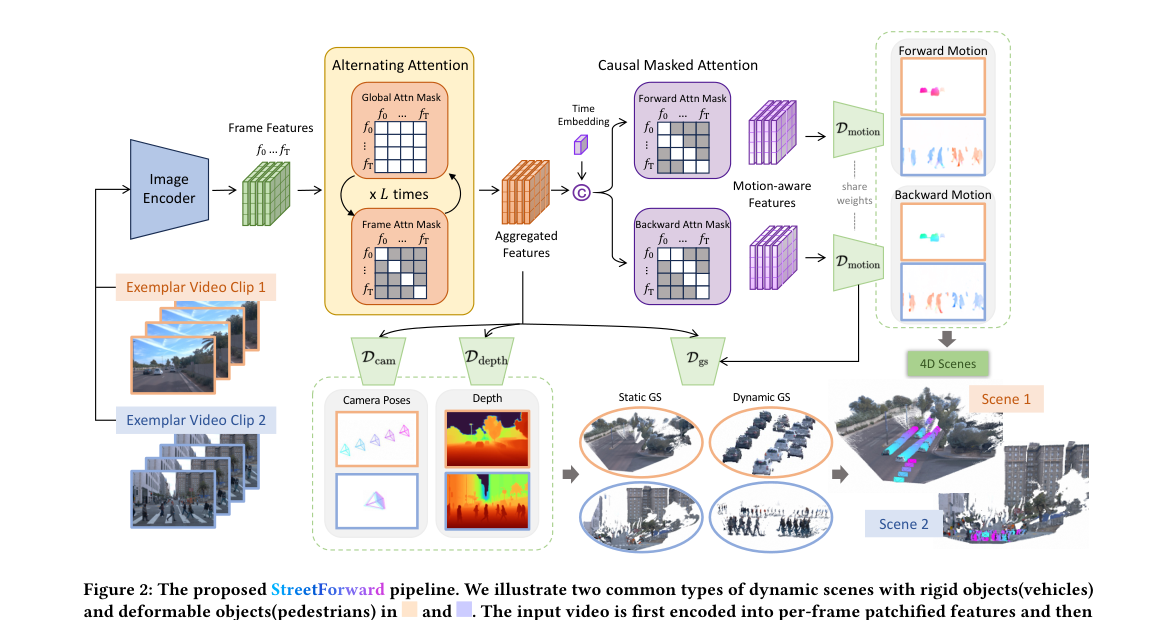
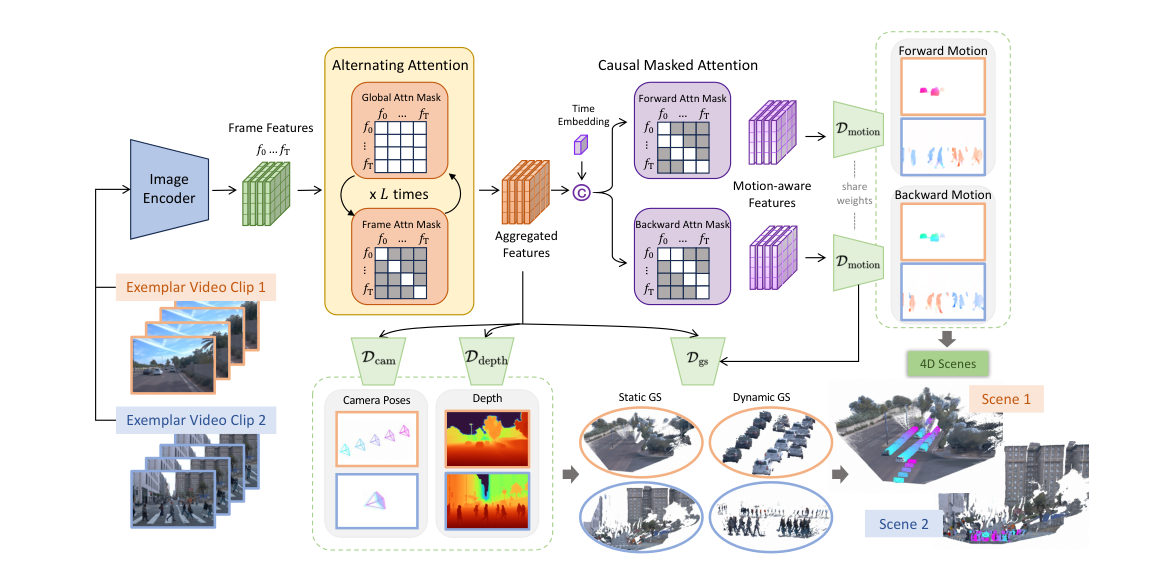
fix: refine figure cropping and simplify blog homepage links

Changed region(s): [[0.0612, 0.0592, 0.949, 1.0], [0.7653, 0.0296, 0.8571, 0.1185]]

diff --git a/site/index.html b/site/index.html
@@ -50,25 +50,20 @@
     这里不是论文列表页，而是一个<strong>论文解读博客</strong>：每篇文章围绕一篇已下载论文展开，重点讲清楚问题背景、方法设计、技术细节、图示和我的理解。
   </p>
   <p class='meta'>当前地址即博客首页，后续新增文章会继续出现在这里。</p>
-  <div style='margin-top:14px;'>
-    <a href='posts/2603_19552v1.html' style='display:inline-block;padding:9px 14px;border-radius:10px;background:#1769c2;color:#fff;margin-right:10px;'>开始阅读</a>
-    <a href='#all-posts' style='display:inline-block;padding:9px 14px;border-radius:10px;border:1px solid #d7e3f0;color:#1769c2;'>浏览全部文章</a>
-  </div>
 </section>
 
 <div class='card' style='display:grid;grid-template-columns:repeat(3,1fr);gap:12px;'><div><div class='meta'>文章数</div><div style='font-size:28px;font-weight:700'>1</div></div><div><div class='meta'>最新发布日期</div><div style='font-size:20px;font-weight:700'>2026-04-02</div></div><div><div class='meta'>主题</div><div style='font-size:20px;font-weight:700'>动态重建 / World Model</div></div></div>
 
-<section class='card' style='padding:18px 20px;'><div class='meta'>推荐阅读 / Featured</div><div style='display:grid;grid-template-columns:minmax(0,1fr) 260px;gap:18px;align-items:start;'><div><h2 style='border-left:none;padding-left:0;margin-top:8px;'><a href='posts/2603_19552v1.html'>StreetForward</a></h2><p class='meta'>2026-04-02 · arXiv: 2603.19552v1</p><p class='meta' style='margin-top:4px;'>StreetForward Perceiving Dynamic Street with Feedforward Causal Attention</p><div style='margin:10px 0'><span style='display:inline-block;padding:3px 9px;margin:3px;border-radius:999px;border:1px solid #d9e5f2;background:#f7fbff;font-size:12px;'>feedforward</span><span style='display:inline-block;padding:3px 9px;margin:3px;border-radius:999px;border:1px solid #d9e5f2;background:#f7fbff;font-size:12px;'>3DGS</span><span style='display:inline-block;padding:3px 9px;margin:3px;border-radius:999px;border:1px solid #d9e5f2;background:#f7fbff;font-size:12px;'>自动驾驶</span><span style='display:inline-block;padding:3px 9px;margin:3px;border-radius:999px;border:1px solid #d9e5f2;background:#f7fbff;font-size:12px;'>动态重建</span><span style='display:inline-block;padding:3px 9px;margin:3px;border-radius:999px;border:1px solid #d9e5f2;background:#f7fbff;font-size:12px;'>场景仿真</span></div><p>StreetForward: Perceiving Dynamic Street with Feedforward Causal Attention Zhongrui Yu Li Auto Inc. Zhao Wang Li Auto Inc. Yijia Xie∗ Zhejiang University Yida Wang† Li Auto Inc. Xueyang Zhang Li Auto Inc. Yifei Zhan Li A</p><p><a href='posts/2603_19552v1.html'>开始阅读 →</a></p></div><div><img src='assets/2603_19552v1/figure1_full.png' alt='cover' style='width:100%;border-radius:12px;border:1px solid #e5e5e5;' /></div></div></section>
+<section class='card' style='padding:18px 20px;'><div class='meta'>推荐阅读 / Featured</div><div style='display:grid;grid-template-columns:minmax(0,1fr) 260px;gap:18px;align-items:start;'><div><h2 style='border-left:none;padding-left:0;margin-top:8px;'><a href='posts/2603_19552v1.html'>StreetForward</a></h2><div style='margin:10px 0'><span style='display:inline-block;padding:3px 9px;margin:3px;border-radius:999px;border:1px solid #d9e5f2;background:#f7fbff;font-size:12px;'>feedforward</span><span style='display:inline-block;padding:3px 9px;margin:3px;border-radius:999px;border:1px solid #d9e5f2;background:#f7fbff;font-size:12px;'>3DGS</span><span style='display:inline-block;padding:3px 9px;margin:3px;border-radius:999px;border:1px solid #d9e5f2;background:#f7fbff;font-size:12px;'>自动驾驶</span><span style='display:inline-block;padding:3px 9px;margin:3px;border-radius:999px;border:1px solid #d9e5f2;background:#f7fbff;font-size:12px;'>动态重建</span><span style='display:inline-block;padding:3px 9px;margin:3px;border-radius:999px;border:1px solid #d9e5f2;background:#f7fbff;font-size:12px;'>场景仿真</span></div><p style='font-size:13px;color:#555;'>一篇把动态街景 4D 重建做成前馈推理、并用因果注意力显式建模时间方向的工作。</p></div><div><img src='assets/2603_19552v1/figure1_full.png' alt='cover' style='width:100%;border-radius:12px;border:1px solid #e5e5e5;' /></div></div></section>
 
 <section style='display:grid;grid-template-columns:1.2fr 1fr 1fr;gap:14px;margin-top:18px;'>
   <div class='card'>
     <div class='meta'>最近更新</div>
-    <ul style='padding-left:18px;margin-top:10px;'><li style='margin:8px 0;'><a href='posts/2603_19552v1.html'>StreetForward</a><div class='meta'>2026-04-02</div></li></ul>
+    <ul style='padding-left:18px;margin-top:10px;'><li style='margin:8px 0;'><a href='posts/2603_19552v1.html'>StreetForward</a><div style='font-size:12px;color:#666;margin-top:2px;'>一篇把动态街景 4D 重建做成前馈推理、并用因果注意力显式建模时间方向的工作。</div></li></ul>
   </div>
   <div class='card'>
     <div class='meta'>推荐阅读</div>
-    <p style='margin-top:10px;'>如果你是第一次来，建议先看最新或最具代表性的一篇文章，快速了解这个博客的写作风格与技术深度。</p>
-    <p><a href='posts/2603_19552v1.html'>打开推荐文章 →</a></p>
+    <p style='margin-top:10px;'>如果你是第一次来，建议直接点击上方推荐文章标题，快速了解这个博客的写作风格与技术深度。</p>
   </div>
   <div class='card'>
     <div class='meta'>分类标签</div>
@@ -80,7 +75,7 @@
   <h2 style='margin-top:26px;'>全部文章</h2>
   <div class='meta'>按时间倒序展示，支持缩略图与摘要预览</div>
   <div style='display:grid;grid-template-columns:repeat(auto-fill,minmax(280px,1fr));gap:14px;margin-top:14px;'>
-    <article class='card' style='padding:12px;display:flex;flex-direction:column;gap:10px;'><img src='assets/2603_19552v1/figure1_full.png' alt='thumb' style='width:100%;height:160px;object-fit:cover;border-radius:10px;border:1px solid #e5e5e5;' /><div class='meta'>2026-04-02 · arXiv: 2603.19552v1</div><a href='posts/2603_19552v1.html' style='font-size:18px;font-weight:700;color:#1f1f1f;'>StreetForward</a><div class='meta' style='margin-top:2px;'>StreetForward Perceiving Dynamic Street with Feedforward Causal Attention</div><div><span style='display:inline-block;padding:3px 9px;margin:3px;border-radius:999px;border:1px solid #d9e5f2;background:#f7fbff;font-size:12px;'>feedforward</span><span style='display:inline-block;padding:3px 9px;margin:3px;border-radius:999px;border:1px solid #d9e5f2;background:#f7fbff;font-size:12px;'>3DGS</span><span style='display:inline-block;padding:3px 9px;margin:3px;border-radius:999px;border:1px solid #d9e5f2;background:#f7fbff;font-size:12px;'>自动驾驶</span><span style='display:inline-block;padding:3px 9px;margin:3px;border-radius:999px;border:1px solid #d9e5f2;background:#f7fbff;font-size:12px;'>动态重建</span><span style='display:inline-block;padding:3px 9px;margin:3px;border-radius:999px;border:1px solid #d9e5f2;background:#f7fbff;font-size:12px;'>场景仿真</span></div><div style='color:#333;'>StreetForward: Perceiving Dynamic Street with Feedforward Causal Attention Zhongrui Yu Li Auto Inc. Zhao Wang Li Auto Inc. Yijia Xie∗ Zhejiang University Yida Wang† Li Auto Inc. Xueyang Zhang Li Auto Inc. Yifei Zhan Li A</div><div><a href='posts/2603_19552v1.html'>阅读全文 →</a></div></article>
+    <article class='card' style='padding:12px;display:flex;flex-direction:column;gap:10px;'><img src='assets/2603_19552v1/figure1_full.png' alt='thumb' style='width:100%;height:160px;object-fit:cover;border-radius:10px;border:1px solid #e5e5e5;' /><a href='posts/2603_19552v1.html' style='font-size:18px;font-weight:700;color:#1f1f1f;'>StreetForward</a><div style='font-size:12px;color:#666;line-height:1.6;'>一篇把动态街景 4D 重建做成前馈推理、并用因果注意力显式建模时间方向的工作。</div><div><span style='display:inline-block;padding:3px 9px;margin:3px;border-radius:999px;border:1px solid #d9e5f2;background:#f7fbff;font-size:12px;'>feedforward</span><span style='display:inline-block;padding:3px 9px;margin:3px;border-radius:999px;border:1px solid #d9e5f2;background:#f7fbff;font-size:12px;'>3DGS</span><span style='display:inline-block;padding:3px 9px;margin:3px;border-radius:999px;border:1px solid #d9e5f2;background:#f7fbff;font-size:12px;'>自动驾驶</span><span style='display:inline-block;padding:3px 9px;margin:3px;border-radius:999px;border:1px solid #d9e5f2;background:#f7fbff;font-size:12px;'>动态重建</span><span style='display:inline-block;padding:3px 9px;margin:3px;border-radius:999px;border:1px solid #d9e5f2;background:#f7fbff;font-size:12px;'>场景仿真</span></div><div style='color:#333;'>StreetForward: Perceiving Dynamic Street with Feedforward Causal Attention Zhongrui Yu Li Auto Inc. Zhao Wang Li Auto Inc. Yijia Xie∗ Zhejiang University Yida Wang† Li Auto Inc. Xueyang Zhang Li Auto Inc. Yifei Zhan Li A</div></article>
   </div>
 </section>
 

diff --git a/site/posts/2603_19552v1.html b/site/posts/2603_19552v1.html
@@ -69,7 +69,7 @@
       <li>不要依赖分割模型，否则系统链路太长，鲁棒性差；</li>
       <li>不要依赖 LiDAR 或强监督的 4D 标注，因为现实数据里这类标注很少。</li>
     </ul>
-    <figure><img class='paper-fig' src='../assets/2603_19552v1/figure1_full.png' alt='Figure 1:' /><figcaption style='font-size:12px;'>图 1：StreetForward 展示了基于前馈式 3DGS 的动态街景时空外推新视角合成。右侧示意图展示了带精确速度的动态街景 3DGS 表示，因此模型无需依赖分割或跟踪，也能在新视角和新时刻进行运动感知渲染。<br/><span style='color:#888;'>原图注：Figure 1: StreetForward: High-fidelity spatio-temporal extrapolated view synthesis via feedforward 3DGS dynamic street reconstruction. The right pane illustrates our 3DGS representation of a dynamic street with precise velocities, enabling motion- aware rendering at novel poses and times independent of segmentation or tracking. Abstract Feedforward reconstruction is crucial for autonomous driving appli- cations, where rapid scene reconstruction enables efficient utiliza- tion of large-scale driv</span></figcaption></figure>
+    <figure><img class='paper-fig' src='../assets/2603_19552v1/figure1_full.png' alt='Figure 1:' /><figcaption style='font-size:12px;'>图 1：StreetForward 展示了基于前馈式 3DGS 的动态街景时空外推新视角合成。右侧示意图展示了带精确速度的动态街景 3DGS 表示，因此模型无需依赖分割或跟踪，也能在新视角和新时刻进行运动感知渲染。</figcaption></figure>
     <p>
       从整体上看，StreetForward 可以分成四步：
     </p>
@@ -82,7 +82,7 @@
     <blockquote>
       你可以把它理解成：先让模型学会“这条街长什么样”，再让模型学会“这条街上的东西怎么动”，最后把这两件事放在同一个 3DGS 表示里统一渲染。
     </blockquote>
-    <figure><img class='paper-fig' src='../assets/2603_19552v1/figure2_full.png' alt='Figure 2:' /><figcaption style='font-size:12px;'>图 2：StreetForward 的整体流程。输入视频先经过交替式注意力聚合得到跨帧特征，再分别解码相机位姿、深度和高斯属性；随后通过带因果掩码的注意力构造运动感知特征，进一步预测前向/后向运动以及动态掩码，最终把静态高斯与跨时间传播的动态高斯合成为完整 4D 场景。<br/><span style='color:#888;'>原图注：Figure 2: The proposed StreetForward pipeline. We illustrate two common types of dynamic scenes with rigid objects(vehicles) and deformable objects(pedestrians) in and . The input video is first encoded into per-frame patchified features and then processed by 𝐿times alternating global- and frame-attention to aggregate information across frames. These aggregated features are directly decoded by a camera head, a depth head and a Gaussian Head to obtain poses, depth and Gaussian attributes. Then ca</span></figcaption></figure>
+    <figure><img class='paper-fig' src='../assets/2603_19552v1/figure2_full.png' alt='Figure 2:' /><figcaption style='font-size:12px;'>图 2：StreetForward 的整体流程。输入视频先经过交替式注意力聚合得到跨帧特征，再分别解码相机位姿、深度和高斯属性；随后通过带因果掩码的注意力构造运动感知特征，进一步预测前向/后向运动以及动态掩码，最终把静态高斯与跨时间传播的动态高斯合成为完整 4D 场景。</figcaption></figure>
 
     <h2 id='innovation'>核心创新</h2>
     <p>这篇论文的创新点可以概括为 3 条：</p>
@@ -149,6 +149,7 @@
       作者假设在局部邻域内，物体的运动通常不会突然撕裂。于是它在 2D 邻域和 3D 近邻上都加了“速度要相近”的正则项。
       这个约束很像在对速度场做“局部平滑”，但不是盲目平滑，而是带动态置信度权重的平滑。
     </p>
+    
     <p>
       通俗点讲，这相当于告诉模型：
       “如果两个点离得很近，而且都很像动态区域，那它们的运动方向和速度最好别差太多。”
@@ -180,6 +181,8 @@
       <li>在静止或慢速物体附近，它能更好地区分“看起来像动态”和“真正有运动”的区域；</li>
       <li>在时间插值场景中，前后向速度联合建模比只预测单向速度的版本效果更完整。</li>
     </ul>
+    
+    
     <p>
       如果用一句话概括实验部分，那就是：StreetForward 的改进不是只体现在数值上，而是体现在<strong>动态场景下渲染结果更稳、更清晰、更少伪影</strong>。
     </p>

diff --git a/build_blog.py b/build_blog.py
@@ -232,20 +232,59 @@ def _extract_figure_region_by_caption(
         if not rects:
             continue
         cap_rect = rects[0]
-        all_caps = []
-        for i in range(1, 10):
-            label = f"Figure {i}:"
-            found = page.search_for(label)
-            if found:
-                all_caps.append((label, found[0]))
-        all_caps = sorted(all_caps, key=lambda x: x[1].y0)
-        start_y = top_margin
-        for idx, (label, rect) in enumerate(all_caps):
-            if label == caption_label:
-                if idx > 0:
-                    start_y = all_caps[idx - 1][1].y1 + 8
-                break
-        clip = fitz.Rect(page.rect.x0 + 12, start_y, page.rect.x1 - 12, cap_rect.y1 + 10)
+        image_rects = []
+        for image in page.get_images(full=True):
+            try:
+                for rect in page.get_image_rects(image[0]):
+                    if rect.is_empty or rect.width * rect.height < 5000:
+                        continue
+                    image_rects.append(rect)
+            except Exception:
+                continue
+
+        near_rects = [
+            r
+            for r in image_rects
+            if r.y1 <= cap_rect.y0 - 2 and r.y0 >= max(top_margin, cap_rect.y0 - 380)
+        ]
+        if near_rects:
+            x0 = min(r.x0 for r in near_rects) - 6
+            y0 = min(r.y0 for r in near_rects) - 6
+            x1 = max(r.x1 for r in near_rects) + 6
+            y1 = max(r.y1 for r in near_rects) + 6
+            clip = fitz.Rect(x0, y0, x1, y1) & page.rect
+            if clip.width < page.rect.width * 0.55 or clip.height < 120:
+                near_rects = []
+        else:
+            all_caps = []
+            for i in range(1, 10):
+                label = f"Figure {i}:"
+                found = page.search_for(label)
+                if found:
+                    all_caps.append((label, found[0]))
+            all_caps = sorted(all_caps, key=lambda x: x[1].y0)
+            start_y = top_margin
+            for idx, (label, rect) in enumerate(all_caps):
+                if label == caption_label:
+                    if idx > 0:
+                        start_y = all_caps[idx - 1][1].y1 + 8
+                    break
+            clip = fitz.Rect(page.rect.x0 + 12, start_y, page.rect.x1 - 12, cap_rect.y0 - 4)
+        if near_rects == []:
+            all_caps = []
+            for i in range(1, 10):
+                label = f"Figure {i}:"
+                found = page.search_for(label)
+                if found:
+                    all_caps.append((label, found[0]))
+            all_caps = sorted(all_caps, key=lambda x: x[1].y0)
+            start_y = top_margin
+            for idx, (label, rect) in enumerate(all_caps):
+                if label == caption_label:
+                    if idx > 0:
+                        start_y = all_caps[idx - 1][1].y1 + 8
+                    break
+            clip = fitz.Rect(page.rect.x0 + 12, start_y, page.rect.x1 - 12, cap_rect.y0 - 4)
         pix = page.get_pixmap(matrix=fitz.Matrix(2, 2), clip=clip, alpha=False)
         save_path = out_dir / output_name
         pix.save(save_path)
@@ -259,8 +298,18 @@ def _streetforward_caption_translation(label: str, raw_caption: str) -> str:
     translations = {
         "Figure 1:": "图 1：StreetForward 展示了基于前馈式 3DGS 的动态街景时空外推新视角合成。右侧示意图展示了带精确速度的动态街景 3DGS 表示，因此模型无需依赖分割或跟踪，也能在新视角和新时刻进行运动感知渲染。",
         "Figure 2:": "图 2：StreetForward 的整体流程。输入视频先经过交替式注意力聚合得到跨帧特征，再分别解码相机位姿、深度和高斯属性；随后通过带因果掩码的注意力构造运动感知特征，进一步预测前向/后向运动以及动态掩码，最终把静态高斯与跨时间传播的动态高斯合成为完整 4D 场景。",
+        "Figure 3:": "图 3：面对错误的动态掩码提示时，StreetForward 仍能把停着的车或慢速目标判成近似静态，从而减少虚假运动，渲染结果也更稳定。",
+        "Figure 4:": "图 4：加入刚性正则后，刚体目标周围的漂浮伪影明显减少，说明局部刚性约束确实能让速度场和几何结构更稳定。",
+        "Figure 5:": "图 5：时间插值实验。已知前一帧和后一帧时，StreetForward 能更自然地合成中间时刻的行人和车辆结构，优于只做单向速度预测的简化版本。",
     }
     return translations.get(label, raw_caption)
+
+
+def _infer_tagline(title: str, text: str) -> str:
+    if "streetforward" in title.lower():
+        return "一篇把动态街景 4D 重建做成前馈推理、并用因果注意力显式建模时间方向的工作。"
+    summary = " ".join(text.replace("\n", " ").split())
+    return (summary[:95] + "…") if len(summary) > 96 else summary
 
 
 def _post_sidebar_html(items: List[tuple]) -> str:
@@ -289,13 +338,15 @@ def _streetforward_post_body(doc, date_str: str, figures: List[str], related: Li
         return (
             f"<figure><img class='paper-fig' src='../assets/{slug}/{html.escape(item['path'])}' alt='{html.escape(label)}' />"
             f"<figcaption style='font-size:12px;'>"
-            f"{html.escape(item.get('caption_cn', ''))}<br/>"
-            f"<span style='color:#888;'>原图注：{html.escape(item.get('caption_en', ''))}</span>"
+            f"{html.escape(item.get('caption_cn', ''))}"
             f"</figcaption></figure>"
         )
 
     fig1_html = render_figure("Figure 1:")
     fig2_html = render_figure("Figure 2:")
+    fig3_html = render_figure("Figure 3:")
+    fig4_html = render_figure("Figure 4:")
+    fig5_html = render_figure("Figure 5:")
 
     related_html = "".join(
         [
@@ -422,6 +473,7 @@ def _streetforward_post_body(doc, date_str: str, figures: List[str], related: Li
       作者假设在局部邻域内，物体的运动通常不会突然撕裂。于是它在 2D 邻域和 3D 近邻上都加了“速度要相近”的正则项。
       这个约束很像在对速度场做“局部平滑”，但不是盲目平滑，而是带动态置信度权重的平滑。
     </p>
+    {fig4_html}
     <p>
       通俗点讲，这相当于告诉模型：
       “如果两个点离得很近，而且都很像动态区域，那它们的运动方向和速度最好别差太多。”
@@ -453,6 +505,8 @@ def _streetforward_post_body(doc, date_str: str, figures: List[str], related: Li
       <li>在静止或慢速物体附近，它能更好地区分“看起来像动态”和“真正有运动”的区域；</li>
       <li>在时间插值场景中，前后向速度联合建模比只预测单向速度的版本效果更完整。</li>
     </ul>
+    {fig3_html}
+    {fig5_html}
     <p>
       如果用一句话概括实验部分，那就是：StreetForward 的改进不是只体现在数值上，而是体现在<strong>动态场景下渲染结果更稳、更清晰、更少伪影</strong>。
     </p>
@@ -629,6 +683,7 @@ def build_post_from_pdf(
             "arxiv_id": arxiv_id,
             "path": f"posts/{slug}.html",
             "summary": text[:220].replace("\n", " "),
+            "tagline": _infer_tagline(doc.title, text),
             "thumbnail_path": thumbnail_rel,
             "tags": tags,
             "featured": len(manifest) == 0,
@@ -670,24 +725,21 @@ def build_home(site_dir: Union[str, Path] = "./site") -> Path:
             else ""
         )
         featured_display_title = featured.get("title", "")
-        featured_full_title = featured.get("full_title", featured_display_title)
+        featured_tagline = featured.get("tagline", "")
         latest_html = (
             "<section class='card' style='padding:18px 20px;'>"
             "<div class='meta'>推荐阅读 / Featured</div>"
             f"<div style='display:grid;grid-template-columns:minmax(0,1fr) 260px;gap:18px;align-items:start;'>"
             f"<div>"
             f"<h2 style='border-left:none;padding-left:0;margin-top:8px;'><a href='{html.escape(featured['path'])}'>{html.escape(featured_display_title)}</a></h2>"
-            f"<p class='meta'>{html.escape(featured['date'])} · arXiv: {html.escape(featured['arxiv_id'])}</p>"
-            f"<p class='meta' style='margin-top:4px;'>{html.escape(featured_full_title)}</p>"
             f"<div style='margin:10px 0'>{render_tag_chips(featured.get('tags', []))}</div>"
-            f"<p>{html.escape(featured.get('summary', ''))}</p>"
-            f"<p><a href='{html.escape(featured['path'])}'>开始阅读 →</a></p>"
+            f"<p style='font-size:13px;color:#555;'>{html.escape(featured_tagline)}</p>"
             f"</div><div>{cover}</div></div>"
             "</section>"
         )
 
     recent_list = "".join(
-        f"<li style='margin:8px 0;'><a href='{html.escape(item['path'])}'>{html.escape(item['title'])}</a><div class='meta'>{html.escape(item['date'])}</div></li>"
+        f"<li style='margin:8px 0;'><a href='{html.escape(item['path'])}'>{html.escape(item['title'])}</a><div style='font-size:12px;color:#666;margin-top:2px;'>{html.escape(item.get('tagline', ''))}</div></li>"
         for item in manifest[:5]
     ) or "<li>暂无文章</li>"
 
@@ -696,7 +748,7 @@ def build_home(site_dir: Union[str, Path] = "./site") -> Path:
     card_grid = ""
     for item in manifest:
         display_title = item.get("title", "")
-        full_title = item.get("full_title", display_title)
+        tagline = item.get("tagline", "")
         thumb = (
             f"<img src='{html.escape(item['thumbnail_path'])}' alt='thumb' style='width:100%;height:160px;object-fit:cover;border-radius:10px;border:1px solid #e5e5e5;' />"
             if item.get("thumbnail_path")
@@ -705,12 +757,10 @@ def build_home(site_dir: Union[str, Path] = "./site") -> Path:
         card_grid += (
             f"<article class='card' style='padding:12px;display:flex;flex-direction:column;gap:10px;'>"
             f"{thumb}"
-            f"<div class='meta'>{html.escape(item['date'])} · arXiv: {html.escape(item['arxiv_id'])}</div>"
             f"<a href='{html.escape(item['path'])}' style='font-size:18px;font-weight:700;color:#1f1f1f;'>{html.escape(display_title)}</a>"
-            f"<div class='meta' style='margin-top:2px;'>{html.escape(full_title)}</div>"
+            f"<div style='font-size:12px;color:#666;line-height:1.6;'>{html.escape(tagline)}</div>"
             f"<div>{render_tag_chips(item.get('tags', []))}</div>"
             f"<div style='color:#333;'>{html.escape(item.get('summary', ''))}</div>"
-            f"<div><a href='{html.escape(item['path'])}'>阅读全文 →</a></div>"
             f"</article>"
         )
 
@@ -730,10 +780,6 @@ def build_home(site_dir: Union[str, Path] = "./site") -> Path:
     这里不是论文列表页，而是一个<strong>论文解读博客</strong>：每篇文章围绕一篇已下载论文展开，重点讲清楚问题背景、方法设计、技术细节、图示和我的理解。
   </p>
   <p class='meta'>当前地址即博客首页，后续新增文章会继续出现在这里。</p>
-  <div style='margin-top:14px;'>
-    <a href='{html.escape(featured['path']) if featured else '#'}' style='display:inline-block;padding:9px 14px;border-radius:10px;background:#1769c2;color:#fff;margin-right:10px;'>开始阅读</a>
-    <a href='#all-posts' style='display:inline-block;padding:9px 14px;border-radius:10px;border:1px solid #d7e3f0;color:#1769c2;'>浏览全部文章</a>
-  </div>
 </section>
 
 {stats}
@@ -747,8 +793,7 @@ def build_home(site_dir: Union[str, Path] = "./site") -> Path:
   </div>
   <div class='card'>
     <div class='meta'>推荐阅读</div>
-    <p style='margin-top:10px;'>如果你是第一次来，建议先看最新或最具代表性的一篇文章，快速了解这个博客的写作风格与技术深度。</p>
-    <p><a href='{html.escape(featured['path']) if featured else '#'}'>打开推荐文章 →</a></p>
+    <p style='margin-top:10px;'>如果你是第一次来，建议直接点击上方推荐文章标题，快速了解这个博客的写作风格与技术深度。</p>
   </div>
   <div class='card'>
     <div class='meta'>分类标签</div>
